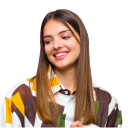
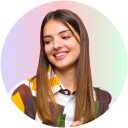
updated contact pin with animation - hero homepage

diff --git a/components/home/hero/ContactPin.tsx b/components/home/hero/ContactPin.tsx
@@ -1,0 +1,63 @@
+import { cn } from "@/lib/utils";
+import { images } from "@/services";
+import { useGSAP } from "@gsap/react";
+import gsap from "gsap";
+import Image from "next/image";
+import { useRef } from "react";
+
+const ContactPin = ({ className }: { className?: string }) => {
+  const circleRef = useRef(null);
+  const text = "contact - contact - contact - contact - ";
+  const chars = text.split("");
+  const deg = 360 / chars.length;
+
+  useGSAP(
+    () => {
+      gsap.to(circleRef.current, {
+        rotation: 360,
+        duration: 8,
+        repeat: -1,
+        ease: "none",
+      });
+    },
+    { scope: circleRef }
+  );
+
+  return (
+    <div
+      className={cn(
+        "flex items-center justify-center rounded-full bg-transparent overflow-hidden hover:scale-150 transition_common cursor-pointer",
+        className
+      )}
+    >
+      <div className="relative w-[110px] h-[110px] rounded-full flex items-center justify-center">
+        <div className="absolute w-16 h-16 rounded-full bg-cover bg-center">
+          <Image
+            src={images.avater2}
+            alt="contact avatar"
+            className="w-full h-full rounded-full object-cover"
+          />
+        </div>
+        <div
+          ref={circleRef}
+          className="absolute w-full h-full text-black font-mono text-lg"
+        >
+          {chars.map((char, i) => (
+            <span
+              key={i}
+              className="absolute left-1/2 text-white text-[7px]"
+              style={{
+                transformOrigin: "0 55px",
+                transform: `rotate(${i * deg}deg)`,
+              }}
+            >
+              {char}
+            </span>
+          ))}
+        </div>
+      </div>
+    </div>
+  );
+};
+
+export default ContactPin;

diff --git a/components/home/hero/Hero.tsx b/components/home/hero/Hero.tsx
@@ -9,6 +9,7 @@ import { useGSAP } from "@gsap/react";
 import gsap from "gsap";
 import Image from "next/image";
 import { useRef } from "react";
+import ContactPin from "./ContactPin";
 
 const Hero = () => {
   const textRef = useRef<HTMLSpanElement | null>(null);
@@ -147,7 +148,7 @@ const Hero = () => {
           </div>
         </div>
 
-        <div className="flex flex-row items-center mt-10 md:mt-20 gap-6">
+        <div className="flex flex-row items-center mt-10 md:mt-20 gap-6 relative">
           <Image
             src={images.RatingClutch}
             alt="clutch rating"
@@ -163,6 +164,7 @@ const Hero = () => {
             height={100}
             width={400}
           />
+          <ContactPin className="absolute -bottom-10 right-0 z-50" />
         </div>
       </div>
     </section>

diff --git a/services/assets/images.ts b/services/assets/images.ts
@@ -1,4 +1,5 @@
 export { default as avatar } from "@/public/images/avatar.png";
+export { default as avater2 } from "@/public/images/avater-2.png";
 export { default as doubleLCrystal } from "@/public/images/double-l-crystal.png";
 export { default as gemCrystal } from "@/public/images/gem-crystal.png";
 export { default as honeycombCrystal } from "@/public/images/honeycomb-crystal.png";

diff --git a/styles/animation.css b/styles/animation.css
@@ -38,3 +38,11 @@
     background-position: 0% 50%;
   }
 }
+
+.rotate-text {
+  position: absolute;
+  transform-origin: 0 104px; /* 50% of the container height and width */
+  font-size: 1rem;
+  line-height: 1rem;
+  top: 0;
+}
